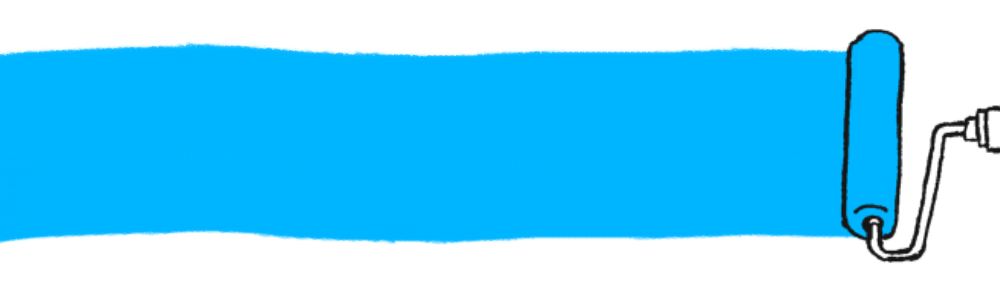
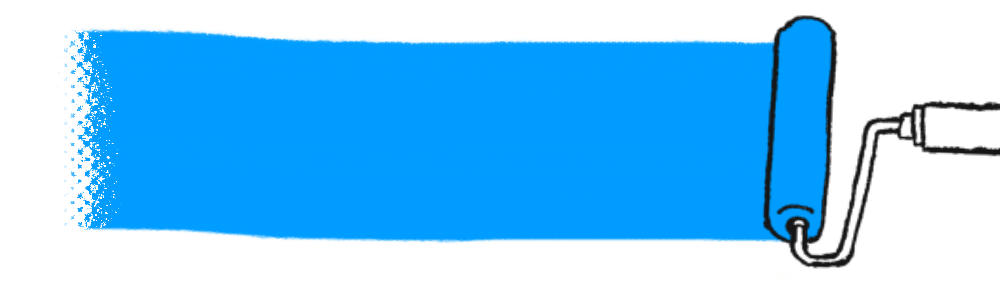
素材追加とデザイン変更

diff --git a/components/event/event.tsx b/components/event/event.tsx
@@ -79,10 +79,15 @@ const EventPage: React.FC = () => {
     return (
         <main className="eventcontent">
             {/* ヘッダー */}
-            <picture className='roller'>
+            <picture className="roller">
                 <source
                     type="image/webp"
-                    media="(min-width:768px)"
+                    media="(min-width: 1400px)"
+                    srcSet="/roller/roller_blue_biggest.png"
+                />
+                <source
+                    type="image/webp"
+                    media="(min-width: 768px)"
                     srcSet="/roller/roller_blue_pc.png"
                 />
                 <Image
@@ -95,9 +100,7 @@ const EventPage: React.FC = () => {
                 />
             </picture>
             <header className="header">
-                <h1 className="e-title">
-                    EVENT
-                </h1>
+                <h1 className="e-title">EVENT</h1>
             </header>
 
             {/* メインコンテンツ */}

diff --git a/app/about/about.css b/app/about/about.css
@@ -21,9 +21,7 @@ okなやつ
 .roller {
     position: absolute;
     top: 0;
-    left: 0;
     z-index: -1;
-    transform: scaleY(-1) rotate(180deg);
 }
 
 .header {
@@ -41,6 +39,20 @@ okなやつ
     font-size: 10vw;
 }
 
+@media (max-width: 767px) {
+    .roller {
+        right: 0;
+        left: auto;
+    }
+}
+
+@media (min-width: 768px) and (max-width: 1399px) {
+    .roller {
+        right: 0;
+        left: auto;
+    }
+}
+
 @media (max-width: 768px) {
     .e-title {
         font-size: 12vw;
@@ -49,20 +61,17 @@ okなやつ
     .header {
         height: 27vw;
     }
-
-    .roller {
-        transform: scaleY(-1) rotate(180deg);
-    }
 }
 
 @media (min-width: 1400px) {
     .roller {
-        transform: scaleY(-1) rotate(180deg);
+        left: 50%;
+        transform: translateX(-50%);
         width: 1400px;
     }
 
     .header {
-        width: 1400px;
+        width: 100%;
         height: 300px;
     }
 

diff --git a/components/event/event.css b/components/event/event.css
@@ -11,9 +11,7 @@
 .roller {
     position: absolute;
     top: 0;
-    left: 0;
     z-index: -1;
-    transform: scaleY(-1) rotate(180deg);
 }
 
 .header {
@@ -31,6 +29,20 @@
     font-size: 10vw;
 }
 
+@media (max-width: 767px) {
+    .roller {
+        right: 0;
+        left: auto;
+    }
+}
+
+@media (min-width: 768px) and (max-width: 1399px) {
+    .roller {
+        right: 0;
+        left: auto;
+    }
+}
+
 @media (max-width: 768px) {
     .e-title {
         font-size: 12vw;
@@ -39,20 +51,17 @@
     .header {
         height: 27vw;
     }
-
-    .roller {
-        transform: scaleY(-1) rotate(180deg);
-    }
 }
 
 @media (min-width: 1400px) {
     .roller {
-        transform: scaleY(-1) rotate(180deg);
+        left: 50%;
+        transform: translateX(-50%);
         width: 1400px;
     }
 
     .header {
-        width: 1400px;
+        width: 100%;
         height: 300px;
     }
 

diff --git a/app/about/page.tsx b/app/about/page.tsx
@@ -14,10 +14,15 @@ export default function Stuff() {
 
     return (
         <main className="main">
-            <picture className='roller'>
+            <picture className="roller">
                 <source
                     type="image/webp"
-                    media="(min-width:768px)"
+                    media="(min-width: 1400px)"
+                    srcSet="/roller/roller_orange_biggest.png"
+                />
+                <source
+                    type="image/webp"
+                    media="(min-width: 768px)"
                     srcSet="/roller/roller_orange_pc.png"
                 />
                 <Image
